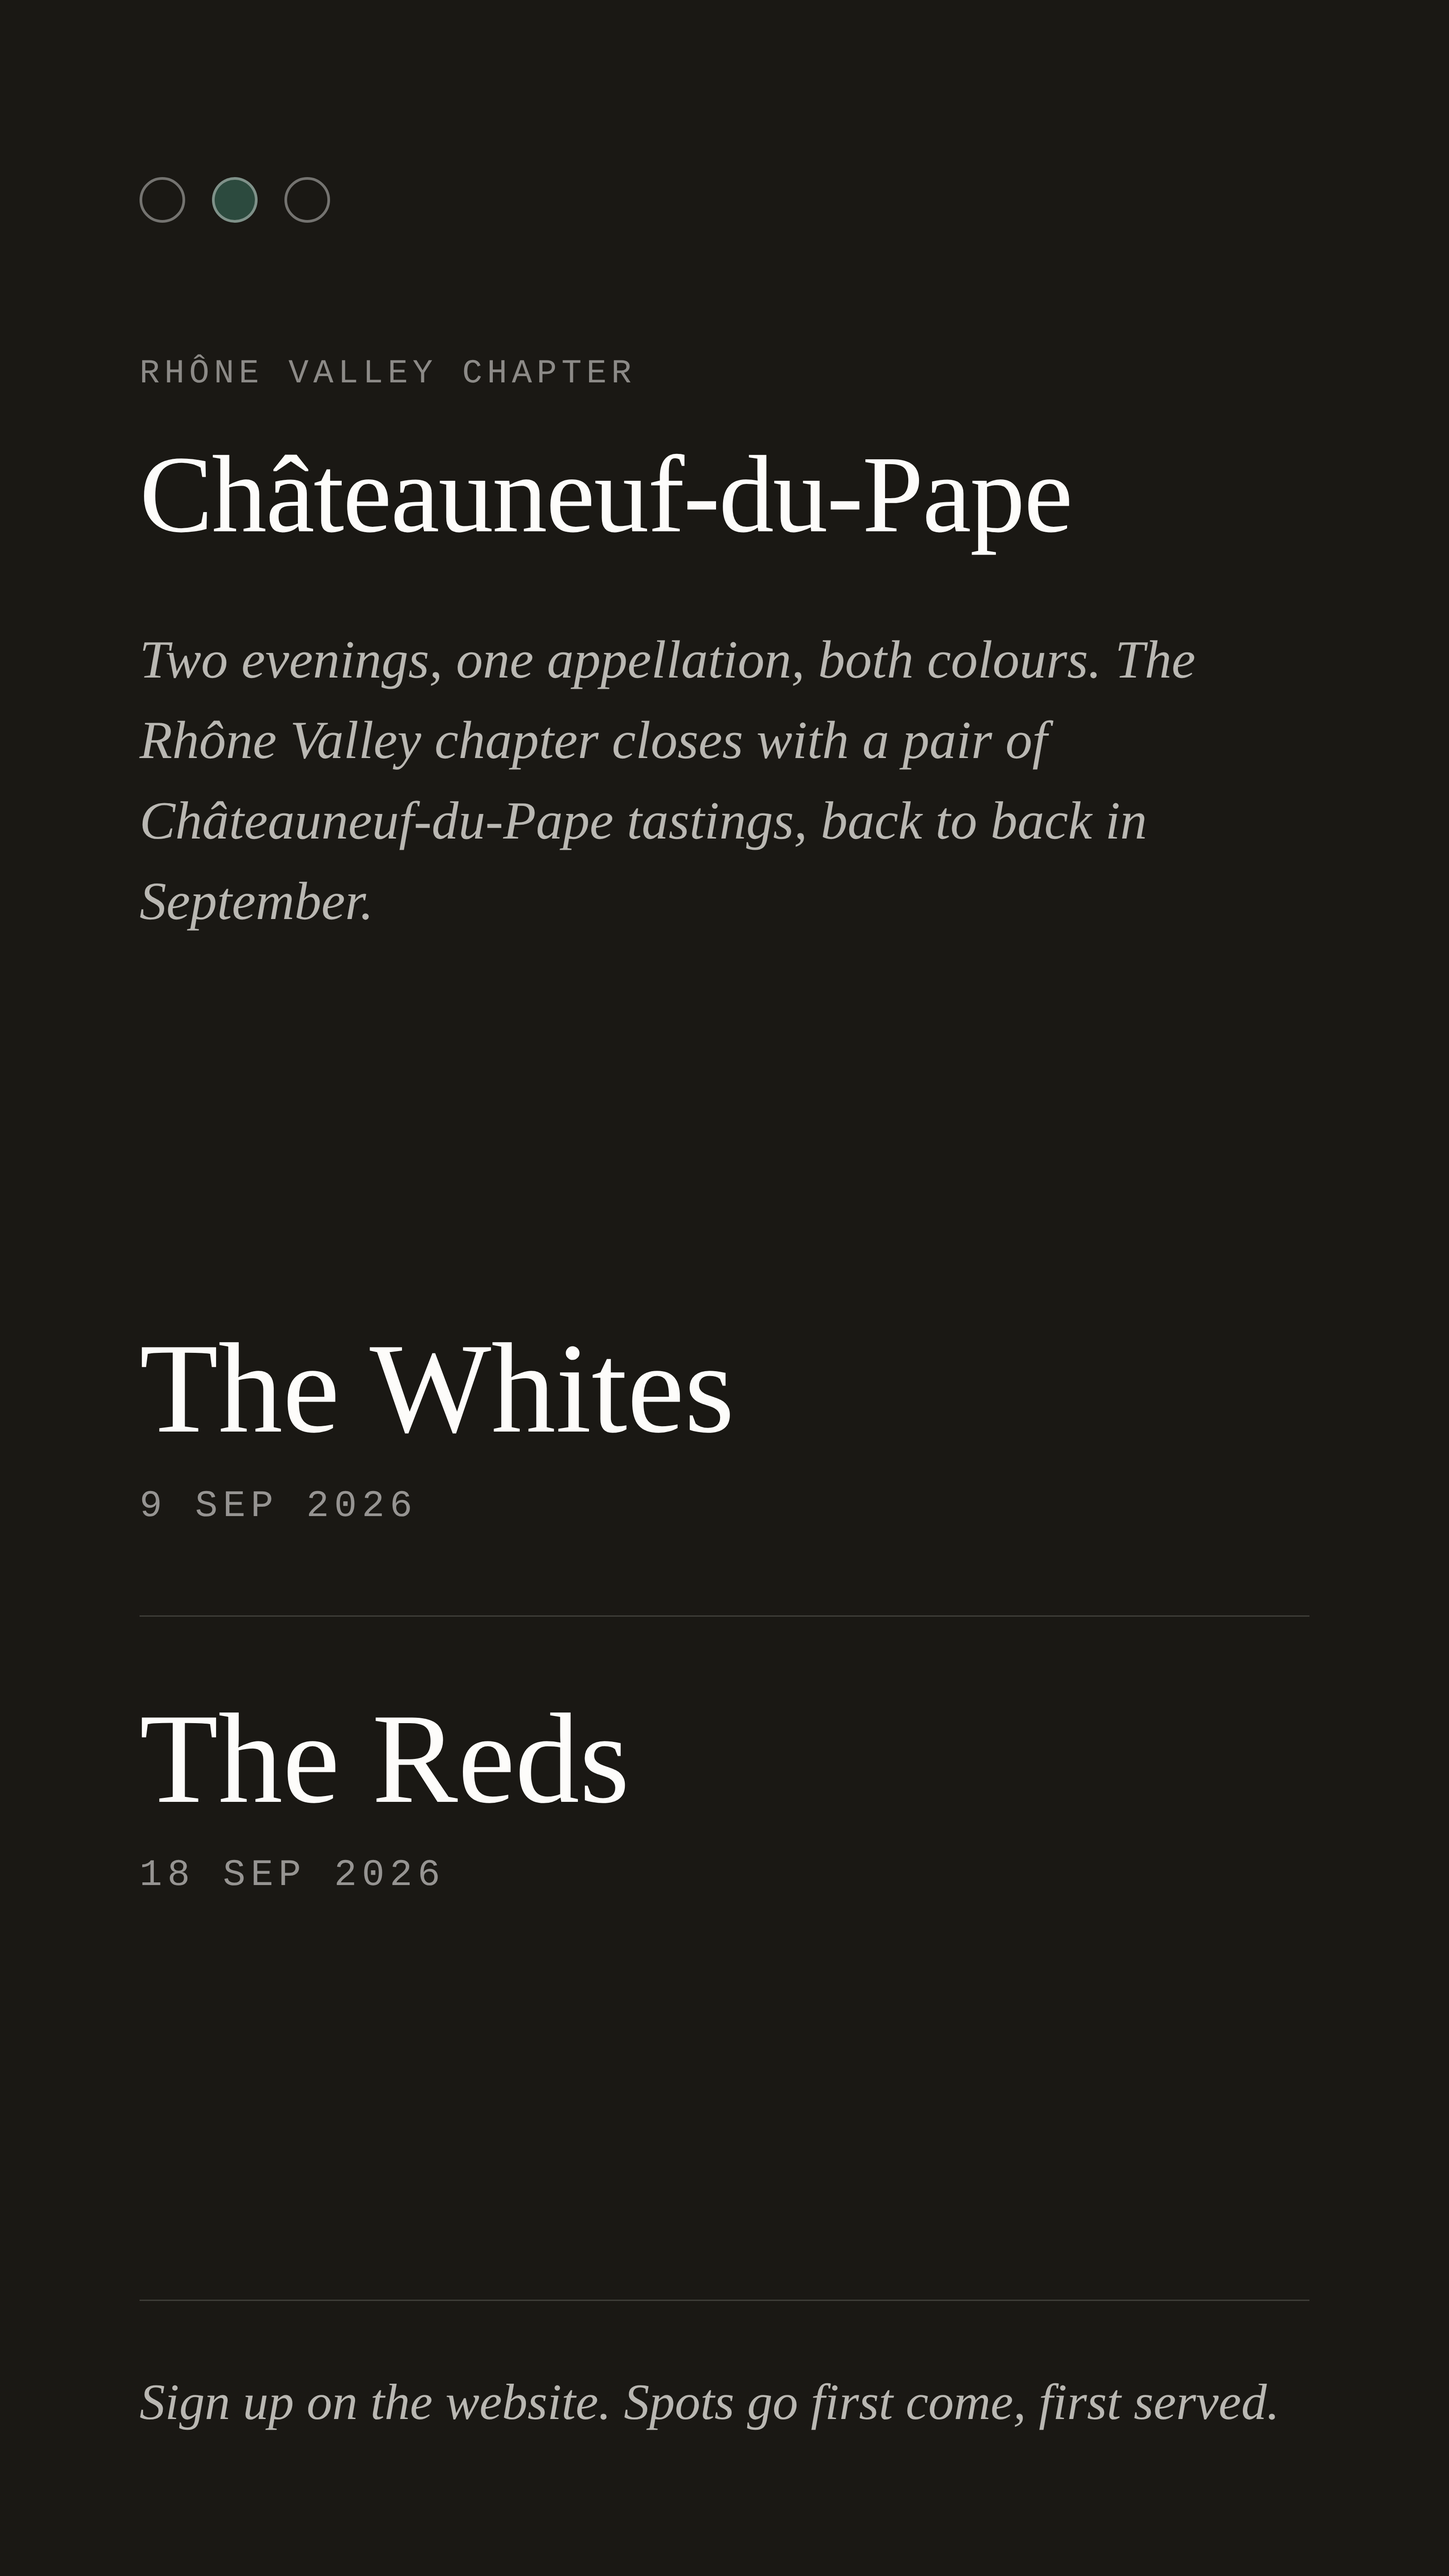
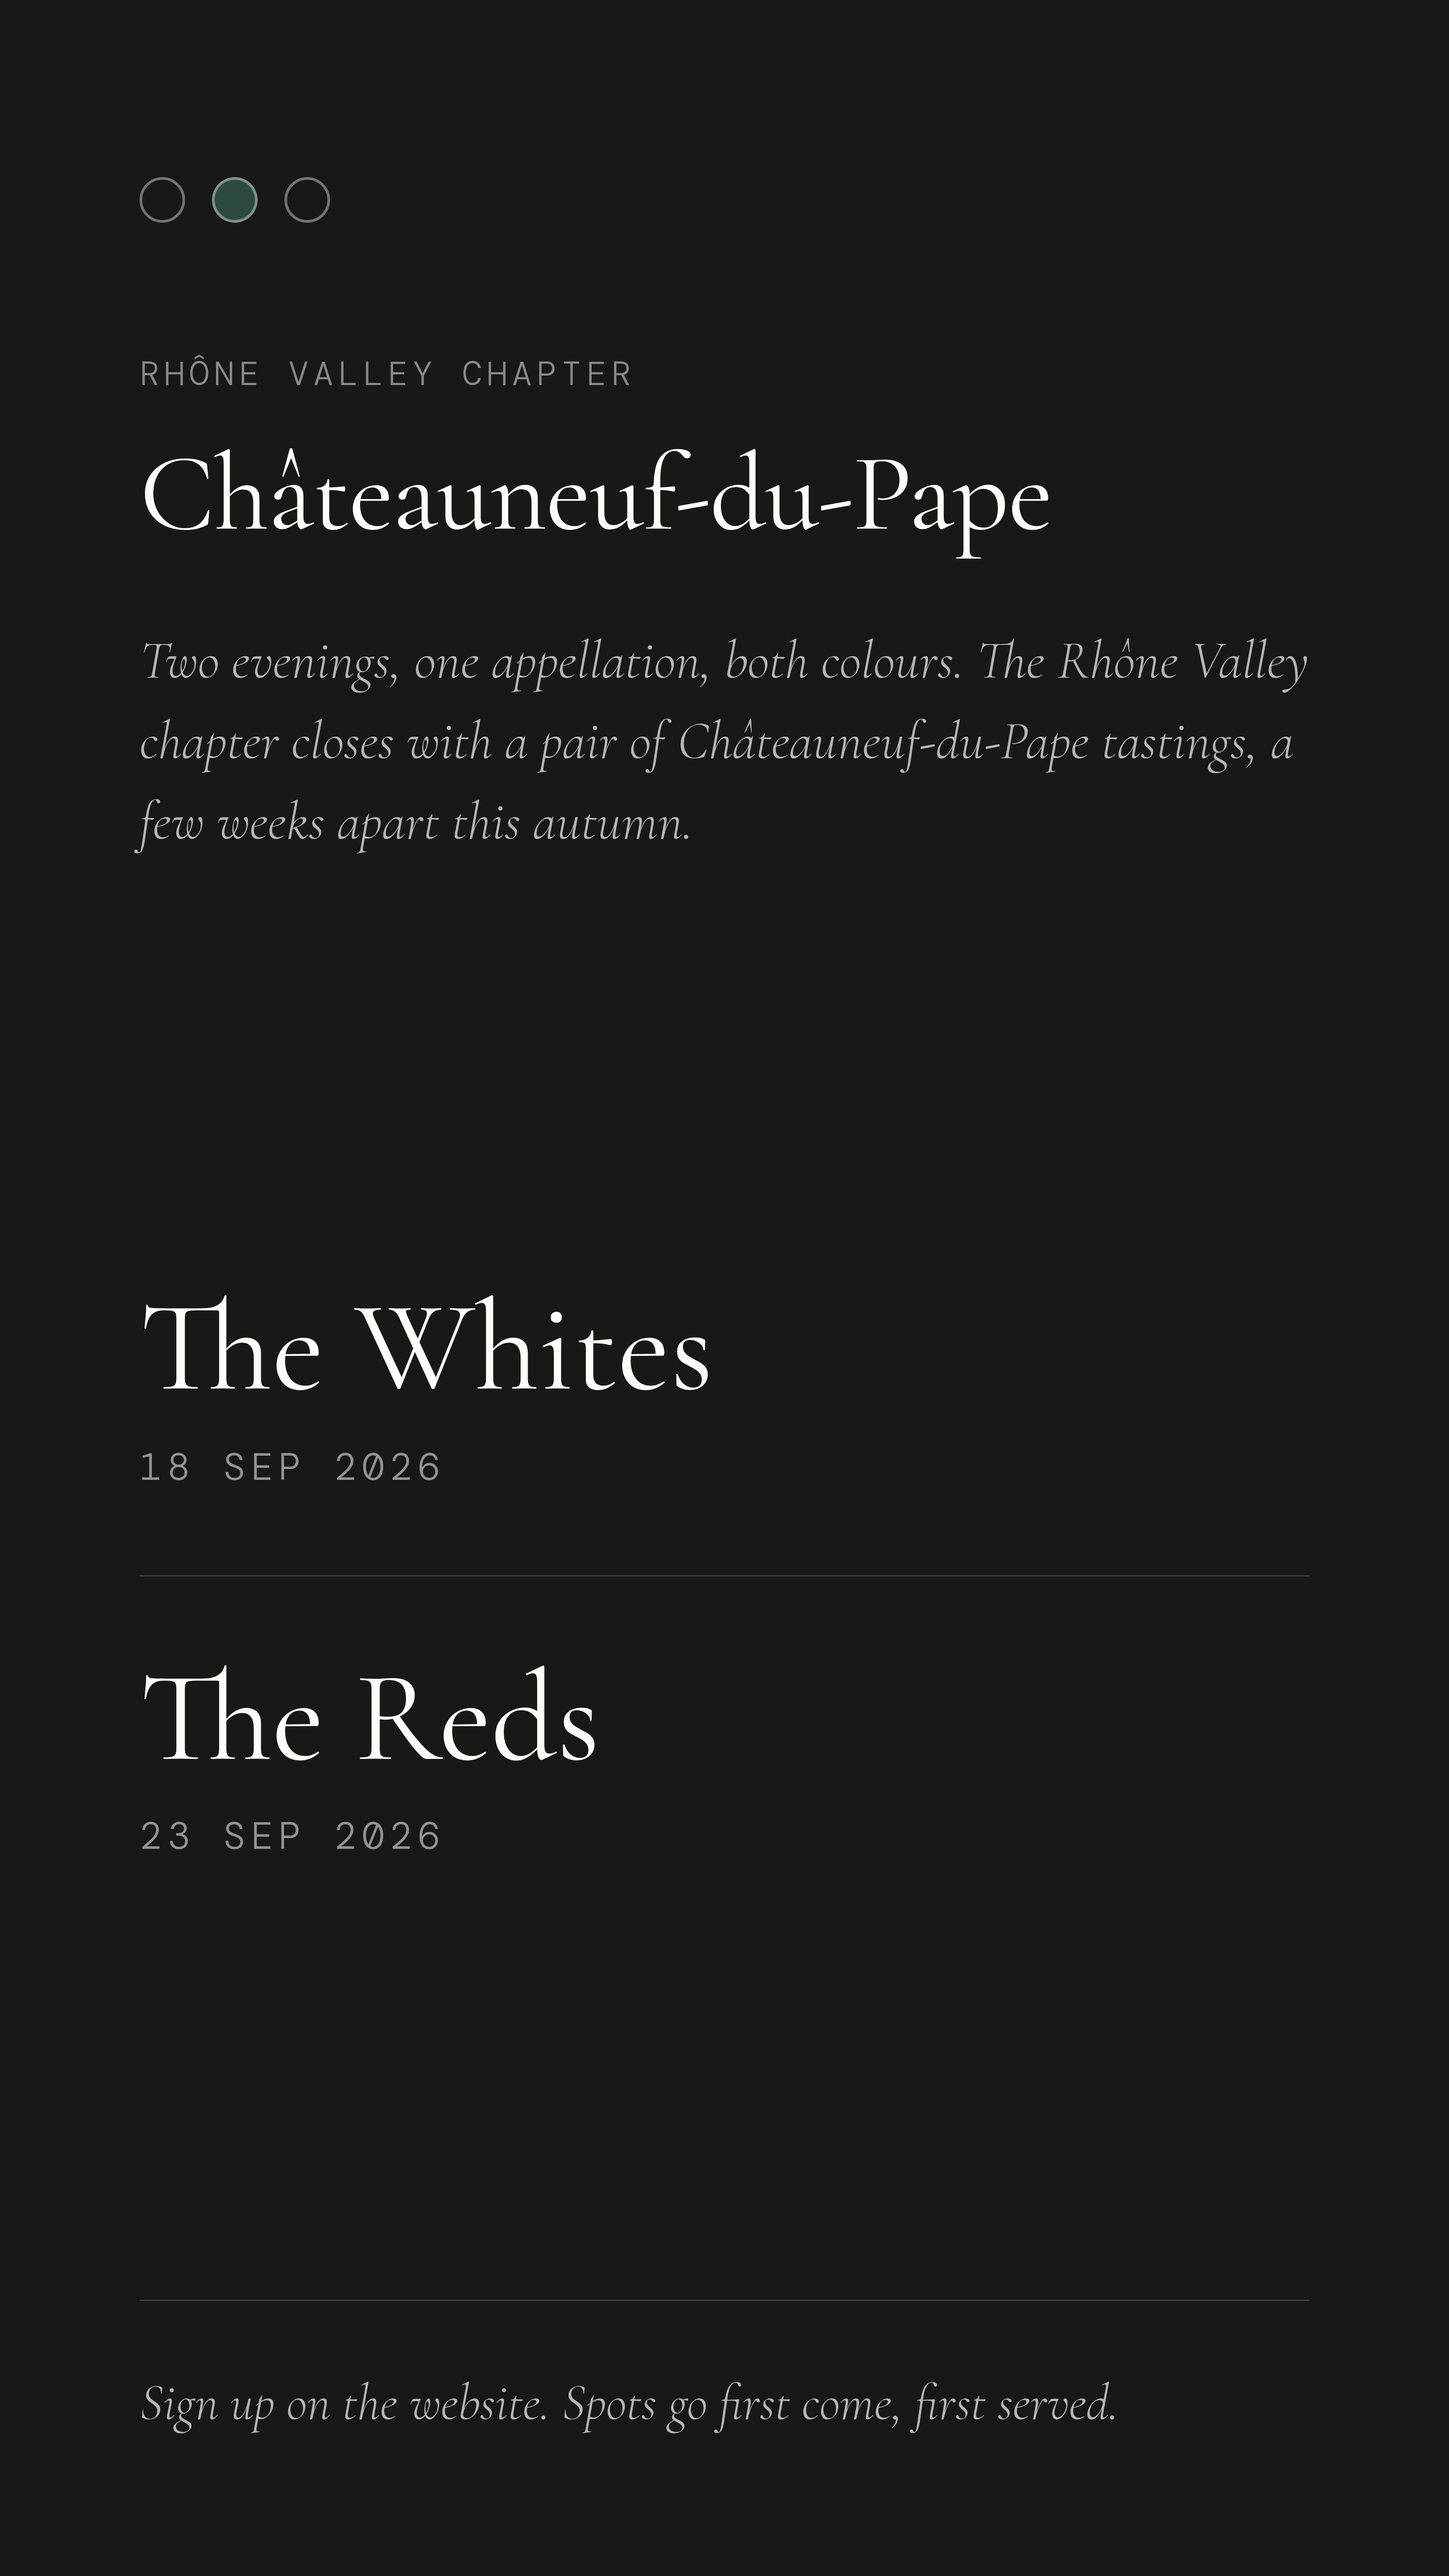
Render all 20 Instagram Stories and fix the renderer's font wait
scripts/render-stories.js waited a fixed 2 seconds for Google Fonts and
captured whatever was on screen, which is how story-12, story-13 and
story-16 were committed in a fallback serif. It now waits for
document.fonts.ready, then requires Cormorant Garamond and DM Mono to be
declared, none to have failed, and every family the slide's text uses to
have loaded; otherwise it stops without writing a PNG. Optional
FONTSOURCE_DIR serves the same families from local @fontsource files for
machines that cannot reach Google Fonts, and CHROMIUM_PATH picks the
browser.

All 20 pages in stories/ are rendered from current sources at 3240x5760,
replacing the three stale PNGs (story-12 and story-16 carried the old
Châteauneuf dates), so assets/social/instagram/stories/ is now a full
mirror of stories/. README updated to say so.

Claude-Session: https://claude.ai/code/session_0159YVSTfezLmzgakZKpzAfR

diff --git a/scripts/render-stories.js b/scripts/render-stories.js
@@ -8,12 +8,93 @@
 //
 // Matches the settings already proven for this project's IG exports:
 // device_scale_factor 3, a viewport wider than the story itself (so
-// nothing clips), a screenshot of the .story element only, and a
-// wait_for_timeout for Google Fonts to finish loading.
+// nothing clips), and a screenshot of the .story element only.
+//
+// Fonts: before each capture the script waits for document.fonts.ready and
+// then checks that Cormorant Garamond and DM Mono actually loaded. If they
+// did not (for example Google Fonts was unreachable), it stops with an error
+// instead of writing a PNG set in a fallback font.
+//
+// Optional environment:
+//   FONTSOURCE_DIR  path to a node_modules/@fontsource folder. When set, the
+//                   Google Fonts stylesheet the pages request is answered
+//                   from the matching local @fontsource files, for machines
+//                   without access to fonts.googleapis.com.
+//   CHROMIUM_PATH   Chromium executable to use instead of Playwright's own.
 
 const path = require('path');
 const fs = require('fs');
 const { chromium } = require('playwright');
+
+const REQUIRED_FAMILIES = ['Cormorant Garamond', 'DM Mono'];
+const LOCAL_FONT_HOST = 'https://fonts.gstatic.com/__fontsource/';
+
+// Builds the @font-face CSS for a css2 URL from local @fontsource packages,
+// keeping every unicode subset, the way Google's own stylesheet does.
+function localFontCss(fontsourceDir, cssUrl) {
+  const url = new URL(cssUrl);
+  const parts = [];
+  for (const spec of url.searchParams.getAll('family')) {
+    const [name, axes = ''] = spec.split(':');
+    const pkg = name.trim().toLowerCase().replace(/\s+/g, '-');
+    let styles = [['400', false]];
+    const m = axes.match(/^(ital,)?wght@(.+)$/);
+    if (m) {
+      styles = m[2].split(';').map((t) => {
+        const v = t.split(',');
+        return m[1] ? [v[1], v[0] === '1'] : [v[0], false];
+      });
+    }
+    for (const [weight, italic] of styles) {
+      const file = path.join(fontsourceDir, pkg, `${weight}${italic ? '-italic' : ''}.css`);
+      if (!fs.existsSync(file)) throw new Error(`missing local font CSS ${file}`);
+      parts.push(fs.readFileSync(file, 'utf8')
+        .replace(/url\(\.\/files\//g, `url(${LOCAL_FONT_HOST}${pkg}/files/`));
+    }
+  }
+  return parts.join('\n');
+}
+
+async function useLocalFonts(context, fontsourceDir) {
+  await context.route('https://fonts.googleapis.com/**', (route) =>
+    route.fulfill({ status: 200, contentType: 'text/css',
+                    body: localFontCss(fontsourceDir, route.request().url()) }));
+  await context.route(`${LOCAL_FONT_HOST}**`, (route) => {
+    const rel = route.request().url().slice(LOCAL_FONT_HOST.length);
+    route.fulfill({ status: 200, contentType: 'font/woff2',
+                    body: fs.readFileSync(path.join(fontsourceDir, rel)) });
+  });
+}
+
+// Waits for fonts, then checks them. document.fonts.ready alone is not
+// enough: if the stylesheet never arrives there are no faces to wait for and
+// it resolves at once. So both families must be declared (the stylesheet
+// arrived), no face may have failed, and every family the story's text is
+// set in must have loaded. A family the slide never uses (e.g. no mono text)
+// is legitimately left unloaded by the browser.
+async function assertFontsLoaded(page, file) {
+  const { faces, used } = await page.evaluate(async () => {
+    await document.fonts.ready;
+    const faces = [...document.fonts].map((f) => ({
+      family: f.family.replace(/["']/g, ''), status: f.status,
+    }));
+    const used = new Set();
+    for (const el of document.querySelectorAll('.story, .story *')) {
+      const hasText = [...el.childNodes].some((n) => n.nodeType === 3 && n.textContent.trim());
+      if (hasText) used.add(getComputedStyle(el).fontFamily.split(',')[0].trim().replace(/["']/g, ''));
+    }
+    return { faces, used: [...used] };
+  });
+  for (const family of REQUIRED_FAMILIES) {
+    const mine = faces.filter((f) => f.family === family);
+    const loaded = mine.filter((f) => f.status === 'loaded').length;
+    const failed = mine.filter((f) => f.status === 'error').length;
+    const missing = !mine.length || failed || (used.includes(family) && !loaded);
+    if (missing) {
+      throw new Error(`${file}: ${family} did not load (${mine.length} declared, ${loaded} loaded, ${failed} failed); not rendering in a fallback font`);
+    }
+  }
+}
 
 async function main() {
   const baseUrl = (process.argv[2] || '').replace(/\/$/, '');
@@ -26,16 +107,21 @@ async function main() {
     .filter((f) => f.endsWith('.html'))
     .sort();
 
-  const browser = await chromium.launch({ args: ['--no-sandbox'] });
-  const page = await browser.newPage({
+  const browser = await chromium.launch({
+    executablePath: process.env.CHROMIUM_PATH || undefined,
+    args: ['--no-sandbox'],
+  });
+  const context = await browser.newContext({
     viewport: { width: 1400, height: 2200 },
     deviceScaleFactor: 3,
   });
+  if (process.env.FONTSOURCE_DIR) await useLocalFonts(context, path.resolve(process.env.FONTSOURCE_DIR));
+  const page = await context.newPage();
 
   for (const file of files) {
     const url = `${baseUrl}/stories/${file}`;
-    await page.goto(url, { waitUntil: 'load' });
-    await page.waitForTimeout(2000); // let Google Fonts settle
+    await page.goto(url, { waitUntil: 'networkidle' });
+    await assertFontsLoaded(page, file);
     const el = await page.$('.story');
     const outName = file.replace(/\.html$/, '.png');
     const outPath = path.join(outDir, outName);

diff --git a/README.md b/README.md
@@ -22,7 +22,7 @@ stories/                - Instagram Story pages (1080x1920), rendered to PNG
 assets/tastings/        - images, maps, QR codes, and PDFs per tasting
 assets/social/          - off-site post assets, not used by the site
   instagram/feed/       - Instagram feed posts, one folder per post (src/ rebuilds it)
-  instagram/stories/    - rendered Instagram Story PNGs (sources in stories/)
+  instagram/stories/    - rendered PNG of every page in stories/ (scripts/render-stories.js)
   linkedin/             - LinkedIn carousels, one folder per post
 _layouts/               - chapter, default, presentation, and story layouts
 _includes/              - nav, footer, chapter progress, story/ slide partials
